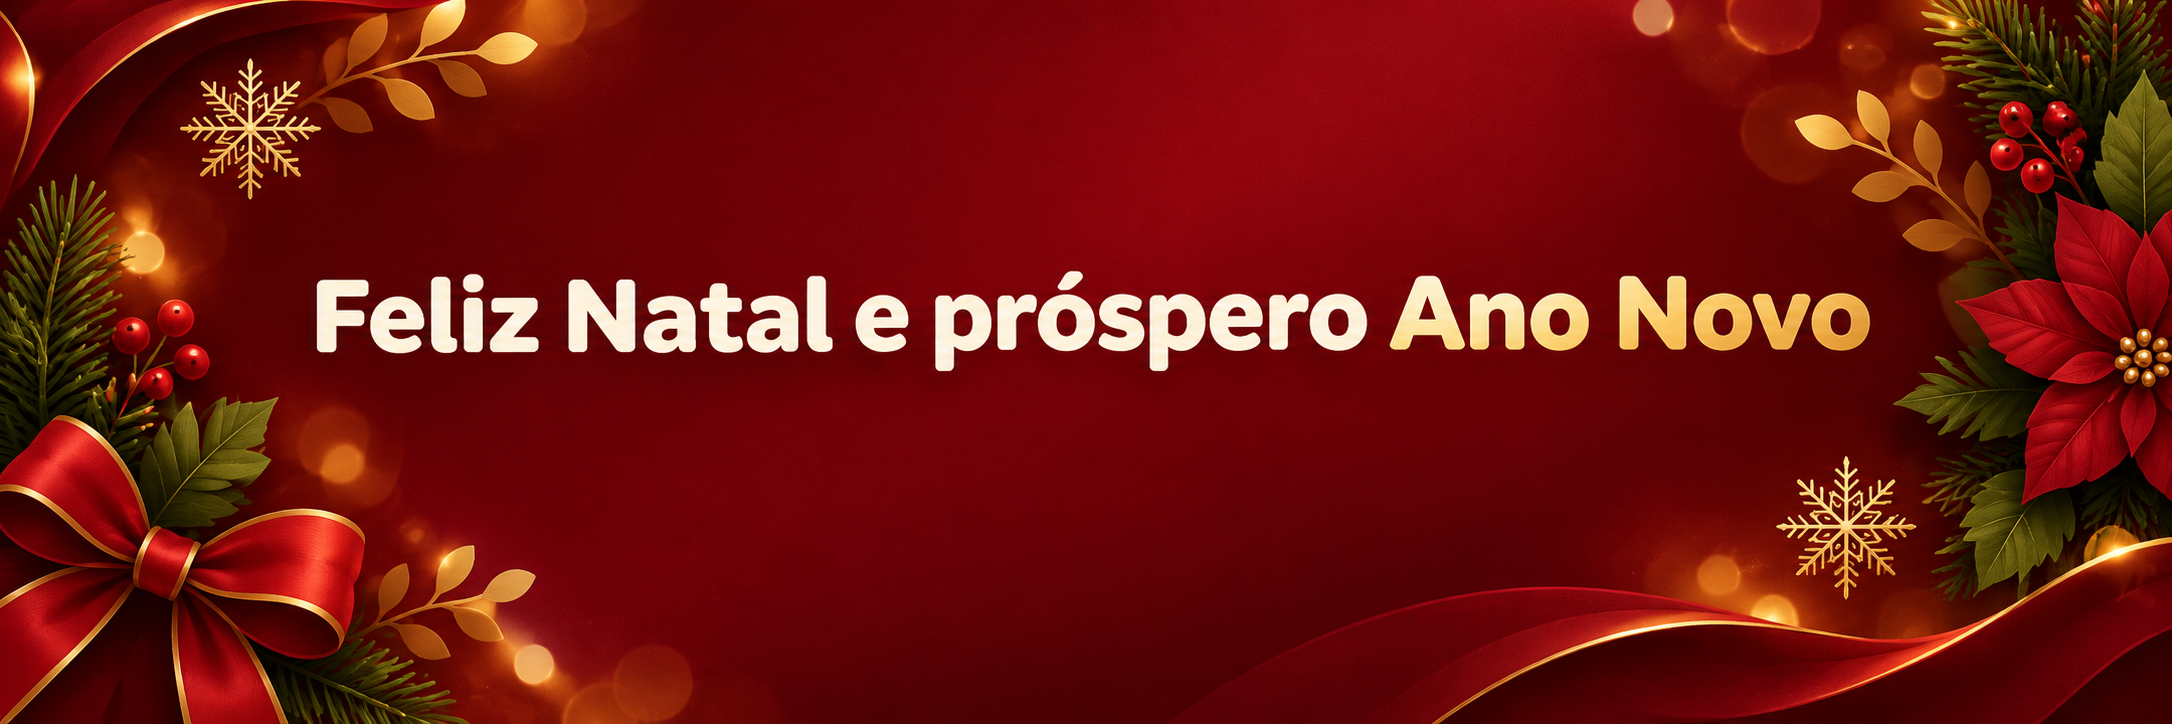
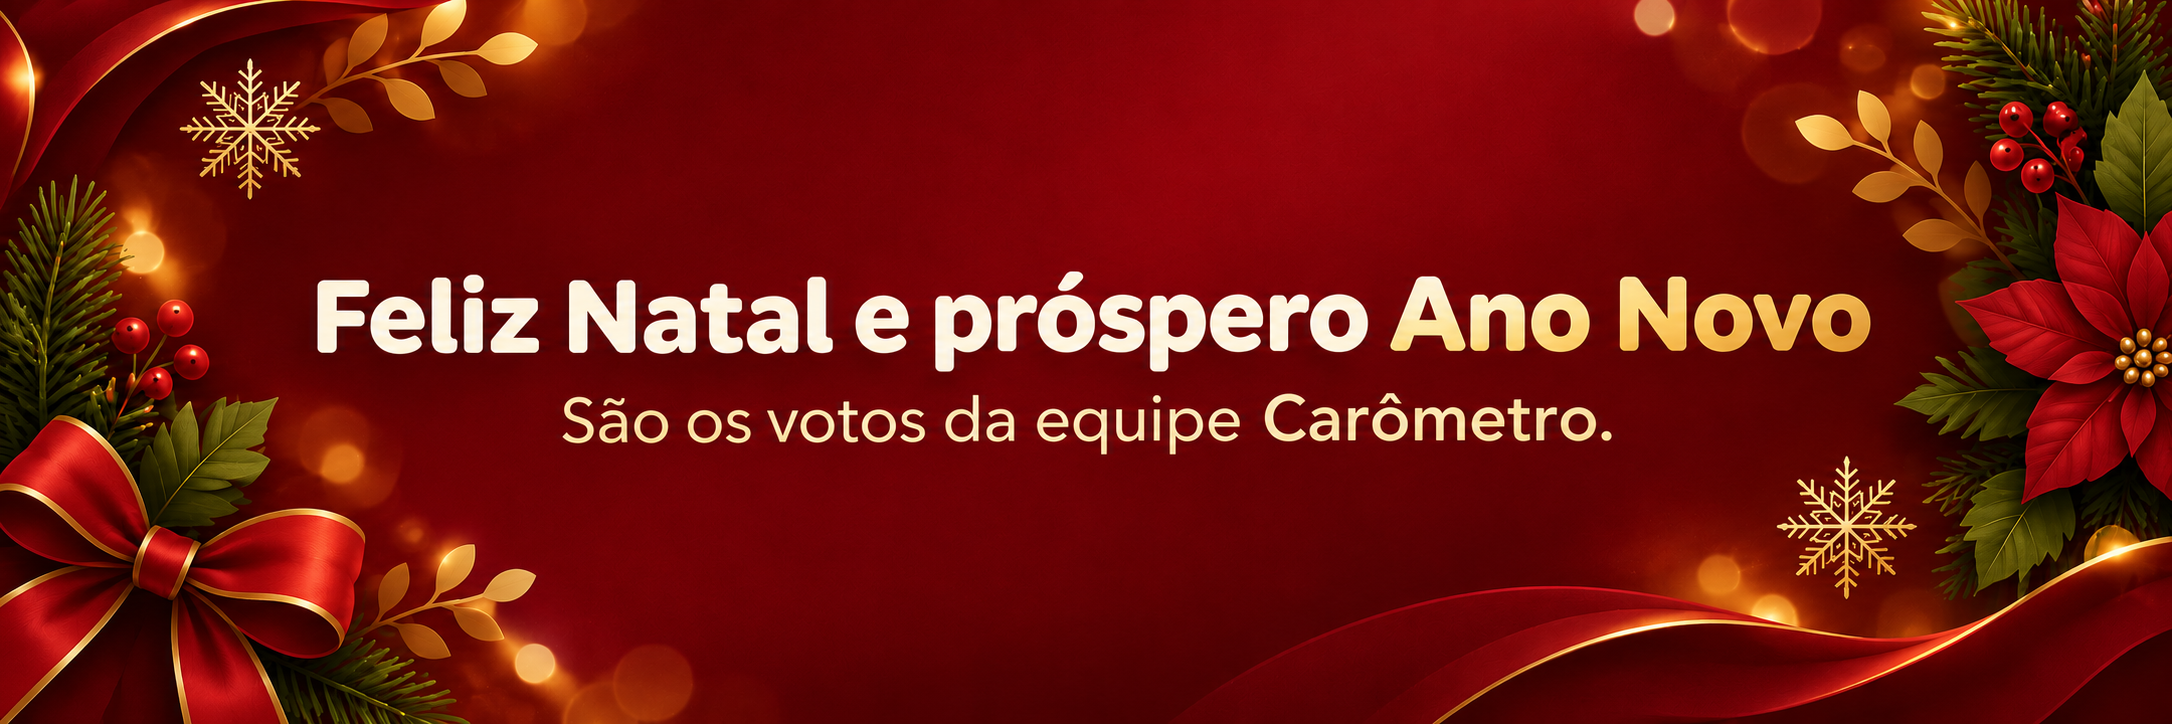
Separate SIAP header campaign from dismissible notices

diff --git a/platform-siap-header-campaign.js b/platform-siap-header-campaign.js
@@ -1,0 +1,154 @@
+(() => {
+  let mounted = false;
+  let current = null;
+  let planPrices = {};
+  const root = () => document.getElementById('platformSiapHeaderCampaignRoot');
+  const form = () => document.getElementById('platformSiapHeaderCampaignForm');
+  const status = (message, error=false) => {
+    const node = document.getElementById('platformSiapHeaderCampaignStatus');
+    node.textContent = message;
+    node.classList.toggle('error',error);
+  };
+  const money = amount => Number.isFinite(Number(amount)) && Number(amount)>0
+    ? new Intl.NumberFormat('pt-BR',{style:'currency',currency:'BRL'}).format(Number(amount)) : 'Preço indisponível';
+  const imageUrl = value => { try { const url=new URL(value); return url.protocol==='https:' ? url.href : null; } catch { return null; } };
+  function row(index) {
+    return `<fieldset class="platform-siap-campaign-button" data-campaign-button="${index}"><legend>Botão ${index+1}</legend>
+      <label><input type="checkbox" name="button_enabled_${index}"> Exibir este botão</label>
+      <div class="platform-siap-campaign-button-grid"><label>Plano<select name="button_plan_${index}"><option value="monthly">Mensal</option><option value="quarterly">Trimestral</option><option value="semiannual">Semestral</option><option value="annual">Anual</option></select></label>
+      <label>Texto do botão<input name="button_label_${index}" maxlength="30" placeholder="Ex.: Semestral"></label></div>
+      <div class="platform-siap-campaign-button-grid"><label>Cor do botão<input type="color" name="button_color_${index}" value="#e7c46f"></label><label>Cor do texto<input type="color" name="button_text_color_${index}" value="#0b1930"></label></div>
+      <small>Abre diretamente o checkout Hotmart vinculado ao plano. O preço vem dos planos de venda.</small>
+    </fieldset>`;
+  }
+  function read() {
+    const fields=form().elements;
+    return {
+      active:fields.active.checked,
+      eyebrow:fields.eyebrow.value.trim(),headline:fields.headline.value.trim(),
+      background_color:fields.background_color.value,text_color:fields.text_color.value,
+      background_image_url:fields.background_image_url.value.trim() || null,
+      buttons:[0,1,2].filter(index => fields[`button_enabled_${index}`].checked).map(index => ({
+        plan_key:fields[`button_plan_${index}`].value,
+        label:fields[`button_label_${index}`].value.trim(),
+        color:fields[`button_color_${index}`].value,
+        text_color:fields[`button_text_color_${index}`].value
+      }))
+    };
+  }
+  function preview() {
+    const item=read();
+    const node=document.getElementById('platformSiapHeaderCampaignPreview');
+    node.replaceChildren();
+    node.style.backgroundColor=item.active ? item.background_color : '#17345d';
+    node.style.color=item.active ? item.text_color : '#fff';
+    const image=item.active && imageUrl(item.background_image_url);
+    node.style.backgroundImage=image ? `linear-gradient(90deg,#061024df,#06102478),url(${JSON.stringify(image)})` : '';
+    const heading=document.createElement('div');
+    heading.className='platform-siap-campaign-preview-head';
+    heading.innerHTML='<strong>Assistente SIAP</strong><small>Professor · Planejamento da aula</small><span>Concessão permanente</span>';
+    node.append(heading);
+    if (!item.active) { const note=document.createElement('p'); note.textContent='Cabeçalho padrão, sem campanha.'; node.append(note); return; }
+    const title=document.createElement('div'); title.className='platform-siap-campaign-preview-title';
+    const eyebrow=document.createElement('small'); eyebrow.textContent=item.eyebrow || 'Chamada da campanha';
+    const headline=document.createElement('strong'); headline.textContent=item.headline || 'Título da campanha';
+    title.append(eyebrow,headline); node.append(title);
+    const buttons=document.createElement('div'); buttons.className='platform-siap-campaign-preview-buttons';
+    for (const entry of item.buttons) {
+      const button=document.createElement('div'); button.style.background=entry.color; button.style.color=entry.text_color;
+      const label=document.createElement('small'); label.textContent=entry.label || 'Texto do botão';
+      const amount=document.createElement('strong'); amount.textContent=money(planPrices[entry.plan_key]);
+      button.append(label,amount); buttons.append(button);
+    }
+    node.append(buttons);
+  }
+  function fill(item) {
+    const fields=form().elements;
+    fields.active.checked=item.active===true;
+    for (const name of ['eyebrow','headline','background_color','text_color']) fields[name].value=item[name] || '';
+    fields.background_image_url.value=item.background_image_url || '';
+    fields.background_file.value='';
+    for (let index=0;index<3;index++) {
+      const button=item.buttons?.[index];
+      fields[`button_enabled_${index}`].checked=Boolean(button);
+      fields[`button_plan_${index}`].value=button?.plan_key || ['semiannual','annual','monthly'][index];
+      fields[`button_label_${index}`].value=button?.label || '';
+      fields[`button_color_${index}`].value=button?.color || '#e7c46f';
+      fields[`button_text_color_${index}`].value=button?.text_color || '#0b1930';
+    }
+    preview();
+  }
+  async function load() {
+    const [campaign,plans]=await Promise.all([
+      db.rpc('platform_get_siap_header_campaign'),
+      db.from('siap_assistant_plans').select('plan_key,amount').eq('active',true)
+    ]);
+    if (campaign.error) { status(`Não foi possível carregar a campanha: ${campaign.error.message}`,true); return; }
+    current=campaign.data;
+    planPrices=Object.fromEntries((plans.data || []).map(plan=>[plan.plan_key,plan.amount]));
+    fill(current);
+    status(current.active ? 'Campanha ativa no cabeçalho.' : 'Cabeçalho padrão ativo. Campanha guardada para reutilização.');
+  }
+  function valid(item) {
+    if (!item.eyebrow || !item.headline) return 'Preencha as duas frases da campanha.';
+    if (item.active && !item.buttons.length) return 'Escolha pelo menos um botão para ativar a campanha.';
+    if (new Set(item.buttons.map(button=>button.plan_key)).size !== item.buttons.length) return 'Escolha planos diferentes nos botões.';
+    if (item.buttons.some(button=>!button.label)) return 'Preencha o texto de cada botão exibido.';
+    if (item.background_image_url && !imageUrl(item.background_image_url)) return 'Use um link HTTPS válido para o fundo.';
+    return null;
+  }
+  async function persist(item) {
+    const errorMessage=valid(item);
+    if (errorMessage) { status(errorMessage,true); return; }
+    const saveButton=document.getElementById('platformSiapHeaderCampaignSave');
+    const resetButton=document.getElementById('platformSiapHeaderCampaignReset');
+    saveButton.disabled=resetButton.disabled=true;
+    let uploadedPath=null;
+    try {
+      const file=form().elements.background_file.files?.[0];
+      if (file && item.active) {
+        const extensions={'image/jpeg':'jpg','image/png':'png','image/webp':'webp'};
+        if (!extensions[file.type] || !file.size || file.size>10*1024*1024) throw Error('Escolha JPG, PNG ou WebP de até 10 MB.');
+        uploadedPath=`themes/${crypto.randomUUID()}.${extensions[file.type]}`;
+        const {error}=await db.storage.from('siap-announcement-media').upload(uploadedPath,file,{contentType:file.type,upsert:false});
+        if (error) throw error;
+        item.background_image_url=db.storage.from('siap-announcement-media').getPublicUrl(uploadedPath).data.publicUrl;
+      }
+      const {error}=await db.rpc('platform_set_siap_header_campaign',{
+        p_active:item.active,p_eyebrow:item.eyebrow,p_headline:item.headline,
+        p_background_color:item.background_color,p_text_color:item.text_color,
+        p_background_image_url:item.background_image_url,p_buttons:item.buttons
+      });
+      if (error) throw error;
+      await load();
+      status(item.active ? 'Campanha publicada no cabeçalho.' : 'Cabeçalho padrão restaurado. Campanha guardada no painel.');
+    } catch (error) {
+      if (uploadedPath) await db.storage.from('siap-announcement-media').remove([uploadedPath]);
+      status(error.message || 'Não foi possível salvar a campanha.',true);
+    } finally { saveButton.disabled=resetButton.disabled=false; }
+  }
+  function mount() {
+    if (mounted || !root()) return;
+    mounted=true;
+    root().innerHTML=`<section class="platform-panel platform-siap-header-campaign"><div class="platform-panel-head"><div><h4>Campanha no cabeçalho</h4><p>Publicidade fixa até você voltar ao padrão. É independente do aviso que cada usuário pode fechar.</p></div></div>
+      <div class="platform-siap-campaign-grid"><form id="platformSiapHeaderCampaignForm">
+        <label class="platform-siap-campaign-active"><input type="checkbox" name="active"> Mostrar campanha no cabeçalho</label>
+        <div class="platform-siap-campaign-button-grid"><label>Frase superior<input name="eyebrow" maxlength="30" placeholder="Ex.: PROMOÇÃO"></label><label>Chamada principal<input name="headline" maxlength="60" placeholder="Ex.: BLACK FRIDAY"></label></div>
+        <div class="platform-siap-campaign-button-grid"><label>Cor de fundo<input name="background_color" type="color" value="#080e1b"></label><label>Cor do texto<input name="text_color" type="color" value="#fff5d4"></label></div>
+        <label>Imagem de fundo (link HTTPS, opcional)<input name="background_image_url" type="url" maxlength="2048" placeholder="https://..."></label>
+        <label>Ou enviar imagem de fundo<input name="background_file" type="file" accept="image/jpeg,image/png,image/webp"></label>
+        <p class="meta">Escolha até três botões. Cada um mostra o preço atual do plano e abre seu checkout Hotmart diretamente.</p>
+        ${[0,1,2].map(row).join('')}
+        <div class="platform-siap-announcement-actions"><button id="platformSiapHeaderCampaignSave" type="submit" class="btn primary">Salvar campanha</button><button id="platformSiapHeaderCampaignReset" type="button" class="btn secondary">Voltar ao cabeçalho padrão</button></div>
+        <p id="platformSiapHeaderCampaignStatus" class="meta" role="status">Carregando…</p>
+      </form><div><strong>Prévia do cabeçalho</strong><div id="platformSiapHeaderCampaignPreview" class="platform-siap-campaign-preview"></div></div></div>
+    </section>`;
+    form().addEventListener('input',preview);
+    form().addEventListener('change',preview);
+    form().onsubmit=event=>{event.preventDefault();persist(read());};
+    document.getElementById('platformSiapHeaderCampaignReset').onclick=()=>{
+      if (current) persist({...current,active:false});
+    };
+  }
+  window.openPlatformSiapHeaderCampaign=()=>{mount();return load();};
+})();

diff --git a/platform-siap-announcement.js b/platform-siap-announcement.js
@@ -136,7 +136,7 @@
     if (card.dataset.themeFileUrl) URL.revokeObjectURL(card.dataset.themeFileUrl);
     card.dataset.themeFileUrl = themeFile ? URL.createObjectURL(themeFile) : '';
     themeStyle(card,{...item,theme_image_url:card.dataset.themeFileUrl || item.theme_image_url});
-    card.innerHTML = `<div class="platform-siap-header-preview"><small>Assistente SIAP</small><strong>Professor · Planejamento da aula</strong><span>Concessão permanente</span></div><div class="platform-siap-notice-card"><div class="platform-siap-notice-preview-label">${item.theme_key === 'black_friday' ? 'OFERTA BLACK FRIDAY' : 'NOVIDADE DO ASSISTENTE SIAP'}</div><strong>${safe(item.title || 'Título da novidade')}</strong><p>${safe(item.message_body || 'Sua mensagem aparecerá aqui.').replace(/\n/g,'<br>')}</p>${source === 'file' ? filePreview : media(item.media_type,item.media_url)}${actionButton(item.link_label,item.link_url)}</div>`;
+    card.innerHTML = `<div class="platform-siap-notice-card"><div class="platform-siap-notice-preview-label">${item.theme_key === 'black_friday' ? 'OFERTA BLACK FRIDAY' : 'NOVIDADE DO ASSISTENTE SIAP'}</div><strong>${safe(item.title || 'Título da novidade')}</strong><p>${safe(item.message_body || 'Sua mensagem aparecerá aqui.').replace(/\n/g,'<br>')}</p>${source === 'file' ? filePreview : media(item.media_type,item.media_url)}${actionButton(item.link_label,item.link_url)}</div>`;
     refreshRemoveButton();
   }
   async function load() {
@@ -260,19 +260,16 @@
     if (mounted || !root()) return;
     mounted = true;
     root().innerHTML = `<section class="platform-panel platform-siap-announcement">
-      <div class="platform-panel-head"><div><h4>Novidade no Assistente SIAP</h4><p>Um comunicado visível no topo do Assistente e na entrada por e-mail.</p></div></div>
+      <div class="platform-panel-head"><div><h4>Aviso abaixo do cabeçalho</h4><p>Novidades e mensagens que o usuário pode fechar no X. Desative para retirar o aviso de todos.</p></div></div>
       <div class="platform-siap-announcement-grid"><form id="platformSiapAnnouncementForm">
         <label>Título<input name="title" maxlength="120" required placeholder="Ex.: Novidade no planejamento"></label>
         <label>Mensagem<textarea name="message_body" rows="5" maxlength="3000" required placeholder="Escreva a novidade para os professores."></textarea></label>
-        <fieldset class="platform-siap-theme-fields"><legend>Ocasião e aparência</legend>
+        <fieldset class="platform-siap-theme-fields"><legend>Aparência do aviso</legend>
           <label>Ocasião<select name="theme_key"><option value="classic">Padrão</option><option value="black_friday">Black Friday</option><option value="teachers">Dia dos Professores</option><option value="public_servant">Dia do Servidor Público</option><option value="black_awareness">Consciência Negra</option><option value="students">Dia do Estudante</option><option value="september_yellow">Setembro Amarelo</option><option value="christmas">Natal</option><option value="new_year">Ano Novo</option><option value="custom">Personalizado</option></select></label>
-          <strong>Cabeçalho do Assistente</strong>
-          <div class="platform-siap-theme-colors"><label>Cor de fundo<input name="theme_color" type="color" value="#17345d"></label><label>Cor da letra<input name="theme_text_color" type="color" value="#ffffff"></label></div>
-          <label>Imagem de fundo do cabeçalho (link HTTPS)<input name="theme_image_url" type="url" maxlength="2048" placeholder="https://..."></label>
-          <label>Ou enviar imagem do cabeçalho<input id="platformSiapThemeFile" name="theme_file" type="file" accept="image/jpeg,image/png,image/webp"></label>
+          <input name="theme_color" type="hidden" value="#17345d"><input name="theme_text_color" type="hidden" value="#ffffff"><input name="theme_image_url" type="hidden"><input id="platformSiapThemeFile" name="theme_file" type="file" hidden>
           <strong>Cartão do aviso</strong>
           <div class="platform-siap-theme-colors"><label>Cor de fundo<input name="notice_color" type="color" value="#e8f8ed"></label><label>Cor da letra<input name="notice_text_color" type="color" value="#14532d"></label><label>Cor do botão<input name="notice_button_color" type="color" value="#168553"></label></div>
-          <small>A imagem do aviso é escolhida em Mídia, abaixo. Ela é diferente da imagem de fundo do cabeçalho. JPG, PNG ou WebP até 10 MB para o cabeçalho.</small>
+          <small>A imagem deste aviso é escolhida em Mídia, abaixo. A campanha fixa do cabeçalho é configurada no cartão acima.</small>
         </fieldset>
         <label>Nome do botão (opcional)<input name="link_label" maxlength="60" placeholder="Ex.: Ver promoção"></label>
         <label>Link do botão (opcional)<input name="link_url" type="url" maxlength="2048" placeholder="https://..."></label>

diff --git a/platform-owner-dashboard.css b/platform-owner-dashboard.css
@@ -209,6 +209,33 @@ body.platform-workspace-open { overflow:hidden; }
 .platform-siap-header-preview strong{font-size:13px;color:inherit}
 .platform-siap-header-preview span{font-size:11px;color:#76e39b;font-weight:750}
 .platform-siap-notice-card{padding:18px;background:var(--siap-notice-color);color:var(--siap-notice-text)}
+
+.platform-siap-header-campaign{margin-bottom:16px}
+.platform-siap-campaign-grid{display:grid;grid-template-columns:minmax(0,1fr) minmax(300px,.9fr);gap:18px}
+.platform-siap-campaign-grid form{display:grid;gap:13px}
+.platform-siap-campaign-grid form>label,.platform-siap-campaign-button-grid label{display:grid;gap:5px;font-weight:700}
+.platform-siap-campaign-grid input:not([type=checkbox]),.platform-siap-campaign-grid select{width:100%;min-height:40px}
+.platform-siap-campaign-grid input[type=color]{padding:3px;cursor:pointer}
+.platform-siap-campaign-grid .platform-siap-campaign-active{display:flex;align-items:center;gap:8px;padding:10px 12px;border-radius:10px;background:#eaf1ff}
+.platform-siap-campaign-button-grid{display:grid;grid-template-columns:repeat(2,minmax(0,1fr));gap:12px}
+.platform-siap-campaign-button{display:grid;gap:10px;margin:0;padding:12px;border:1px solid #cbd7e9;border-radius:12px}
+.platform-siap-campaign-button legend{padding:0 5px;font-weight:850;color:#243e67}
+.platform-siap-campaign-button>label{display:flex;align-items:center;gap:7px;font-weight:750}
+.platform-siap-campaign-button small{color:#64748b}
+.platform-siap-campaign-preview{min-height:190px;margin-top:8px;padding:15px;border-radius:14px;background:#17345d;background-size:cover;background-position:center;color:#fff;box-shadow:0 8px 20px #07142e32}
+.platform-siap-campaign-preview-head{display:grid;gap:2px;max-width:250px}
+.platform-siap-campaign-preview-head strong{font-size:16px}
+.platform-siap-campaign-preview-head small{font-size:12px}
+.platform-siap-campaign-preview-head span{color:#8be2a9;font-size:11px;font-weight:750}
+.platform-siap-campaign-preview-title{display:grid;justify-items:center;gap:1px;margin:20px 0 10px;text-align:center;font-family:ui-rounded,system-ui,sans-serif}
+.platform-siap-campaign-preview-title small{font-size:10px;font-weight:900;letter-spacing:.2em}
+.platform-siap-campaign-preview-title strong{font-size:25px;line-height:1.1;font-weight:950}
+.platform-siap-campaign-preview-buttons{display:grid;grid-template-columns:repeat(3,minmax(0,1fr));gap:7px}
+.platform-siap-campaign-preview-buttons:has(>div:nth-child(2):last-child){grid-template-columns:repeat(2,minmax(0,1fr))}
+.platform-siap-campaign-preview-buttons>div{display:grid;gap:2px;min-width:0;padding:8px 4px;border-radius:13px;text-align:center}
+.platform-siap-campaign-preview-buttons small{font-size:9px;font-weight:850;overflow-wrap:anywhere}
+.platform-siap-campaign-preview-buttons strong{font-size:15px;font-weight:950;white-space:nowrap}
+@media(max-width:1000px){.platform-siap-campaign-grid{grid-template-columns:1fr}}
 .platform-siap-notice-card .platform-siap-notice-preview-label,.platform-siap-notice-card strong,.platform-siap-notice-card p{color:inherit}
 .platform-siap-notice-card .platform-siap-announcement-action{background:var(--siap-notice-button);color:#fff;border:1px solid #ffffff55}
 .platform-siap-announcement-preview[data-theme=black_friday] .platform-siap-notice-card{background-image:radial-gradient(ellipse at 85% 5%,#2a66ad55,transparent 60%),linear-gradient(140deg,var(--siap-notice-color),#142d4c);border-top:2px solid #c9aa61}

diff --git a/platform-owner-dashboard.js b/platform-owner-dashboard.js
@@ -138,7 +138,7 @@
             <section class="platform-page" data-platform-section="subscriptions"><div class="platform-page-heading"><div><h3>Assinaturas</h3><p>Planos, status e condições comerciais reais por escola.</p></div></div><div id="platformSubscriptionsList" class="platform-subscription-grid"></div><div class="platform-page-heading platform-payment-heading"><div><h3>Pagamentos online</h3><p>Assinaturas recorrentes iniciadas pela oferta pública.</p></div></div><div id="platformPaymentSubscriptionsList" class="platform-subscription-grid"></div></section>
             <section class="platform-page" data-platform-section="siap">
               <section class="platform-siap-hero"><div><span>Central de gestão</span><h3>Assistente SIAP</h3><p>Controle acessos, acompanhe clientes e mantenha a operação comercial da extensão em um só lugar.</p></div><a class="btn primary" href="assistente-siap.html" target="_blank" rel="noopener">Ver página pública <span aria-hidden="true">↗</span></a></section>
-              <details class="platform-siap-announcement-disclosure"><summary>Comunicação do Assistente <span aria-hidden="true">⌄</span></summary><div id="platformSiapAnnouncementRoot"></div></details>
+              <details class="platform-siap-announcement-disclosure"><summary>Comunicação do Assistente <span aria-hidden="true">⌄</span></summary><div id="platformSiapHeaderCampaignRoot"></div><div id="platformSiapAnnouncementRoot"></div></details>
               <div class="platform-siap-section-kicker"><span>Visão geral</span><p>Situação atual dos pontos principais do produto.</p></div>
               <div class="platform-siap-readiness">
                 <article><span>1</span><div><h4>Página comercial</h4><p>Apresentação pública com recursos, formas de acesso e planos disponíveis.</p></div><b class="platform-badge active">Publicada</b></article>
@@ -312,7 +312,7 @@
     if (!window.matchMedia('(max-width: 800px)').matches) workspace?.classList.add('menu-collapsed');
     modal.querySelector('.platform-content')?.scrollTo({ top:0, behavior:'smooth' });
     if (page === 'communications') window.openPlatformCommunications?.();
-    if (page === 'siap') window.openPlatformSiapAnnouncement?.();
+    if (page === 'siap') { window.openPlatformSiapHeaderCampaign?.(); window.openPlatformSiapAnnouncement?.(); }
   }
 
   function currency(value) {

diff --git a/index.html b/index.html
@@ -9,7 +9,7 @@
 <link rel="stylesheet" href="siap-grades.css?v=6">
 <link rel="stylesheet" href="family-entry-attendance.css?v=1">
 <link rel="stylesheet" href="responsive-audit-fixes.css?v=10">
-<link rel="stylesheet" href="platform-owner-dashboard.css?v=49">
+<link rel="stylesheet" href="platform-owner-dashboard.css?v=50">
 <link rel="stylesheet" href="platform-in-app-announcements.css?v=8">
 <link rel="preconnect" href="https://fonts.googleapis.com">
 <link rel="preconnect" href="https://fonts.gstatic.com" crossorigin>
@@ -33,7 +33,7 @@ if (window.CAROMETRO_RUNTIME_CONFIG?.backendConfigured) {
     'school-year-transition.js?v=11', 'contact-support.js?v=4',
     'login-improvements.js?v=3', 'subscription-settings.js?v=38',
     'commercial-login-fix.js?v=15',
-    'platform-owner-dashboard.js?v=63', 'platform-siap-announcement.js?v=7', 'platform-communications.js?v=2', 'platform-whatsapp-api.js?v=1', 'platform-in-app-announcements.js?v=8', 'activity-site-link.js?v=2', 'cepi-tutoring.js?v=25', 'cepi-blocks.js?v=10', 'cepi-answer-sheets.js?v=8', 'cepi-correction.js?v=4', 'cepi-qrcode.js?v=1', 'family-school.js?v=16', 'vendor/JsBarcode.all.min.js?v=1', 'family-card-print.js?v=9', 'family-digital-card.js?v=1', 'family-gate.js?v=15', 'cepi-rich-text.js?v=9', 'cepi-useful-lists.js?v=2', 'cepi-exam-import.js?v=1', 'cepi-workspace.js?v=67', 'mobile-layout.js?v=33',
+    'platform-owner-dashboard.js?v=64', 'platform-siap-header-campaign.js?v=1', 'platform-siap-announcement.js?v=8', 'platform-communications.js?v=2', 'platform-whatsapp-api.js?v=1', 'platform-in-app-announcements.js?v=8', 'activity-site-link.js?v=2', 'cepi-tutoring.js?v=25', 'cepi-blocks.js?v=10', 'cepi-answer-sheets.js?v=8', 'cepi-correction.js?v=4', 'cepi-qrcode.js?v=1', 'family-school.js?v=16', 'vendor/JsBarcode.all.min.js?v=1', 'family-card-print.js?v=9', 'family-digital-card.js?v=1', 'family-gate.js?v=15', 'cepi-rich-text.js?v=9', 'cepi-useful-lists.js?v=2', 'cepi-exam-import.js?v=1', 'cepi-workspace.js?v=67', 'mobile-layout.js?v=33',
     'mobile-detail-close.js?v=2', 'mobile-edit-fix.js?v=1',
     'class-stat-counters.js?v=9', 'student-search-filters.js?v=12',
       'pwa-notifications.js?v=9', 'notification-center.js?v=13',
